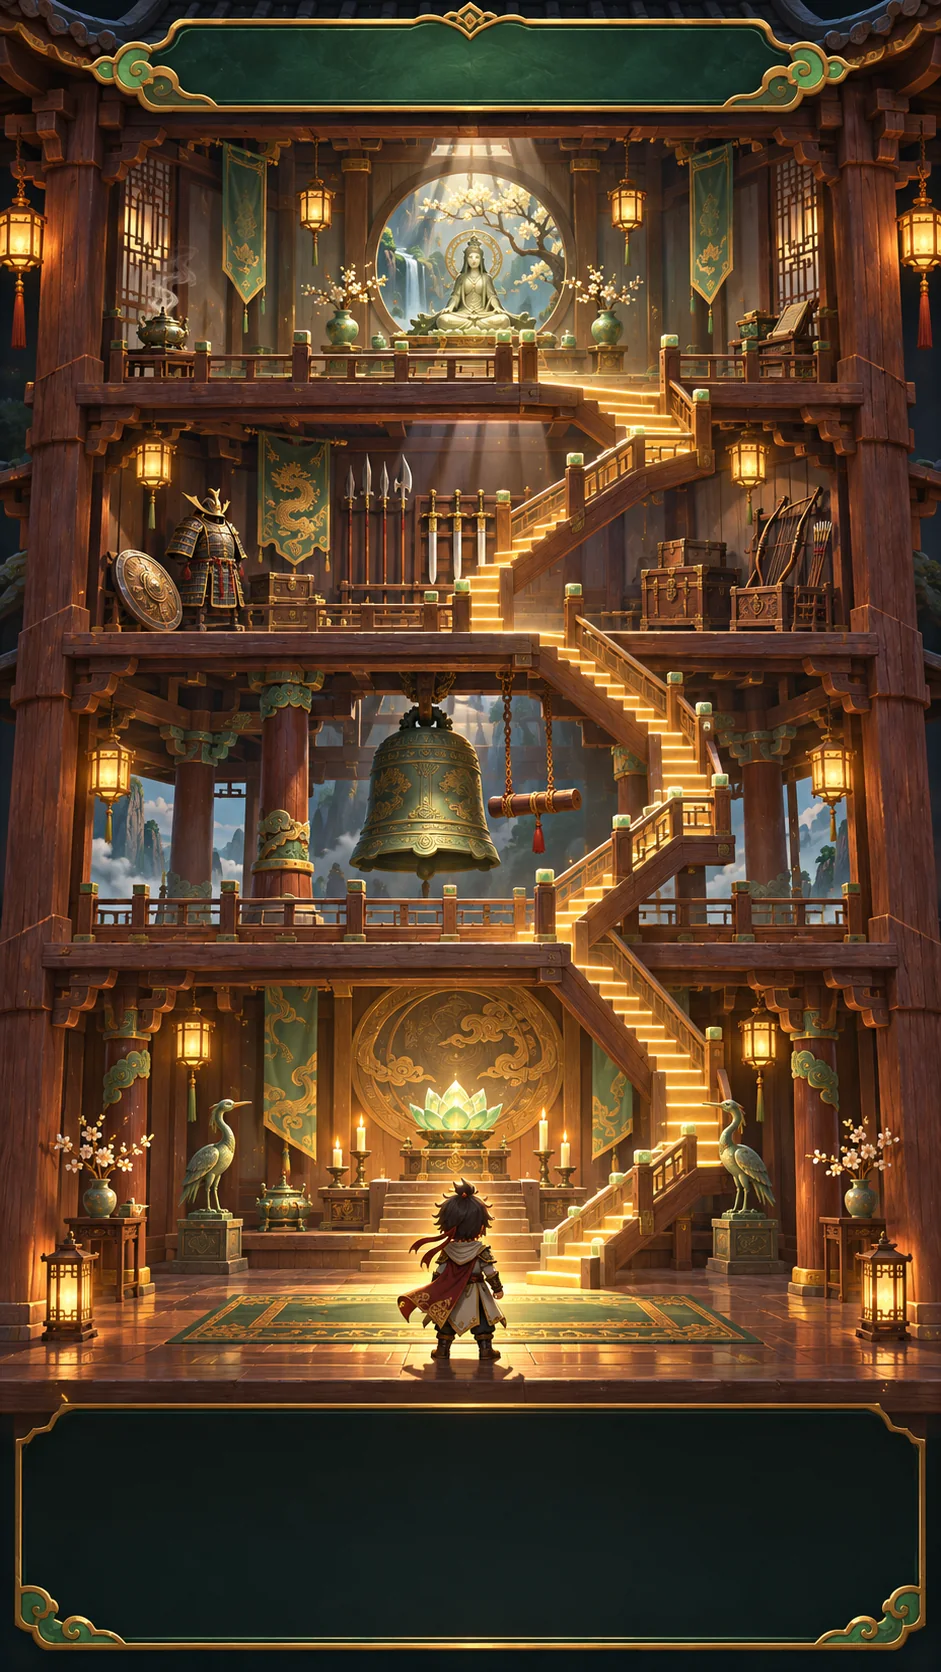
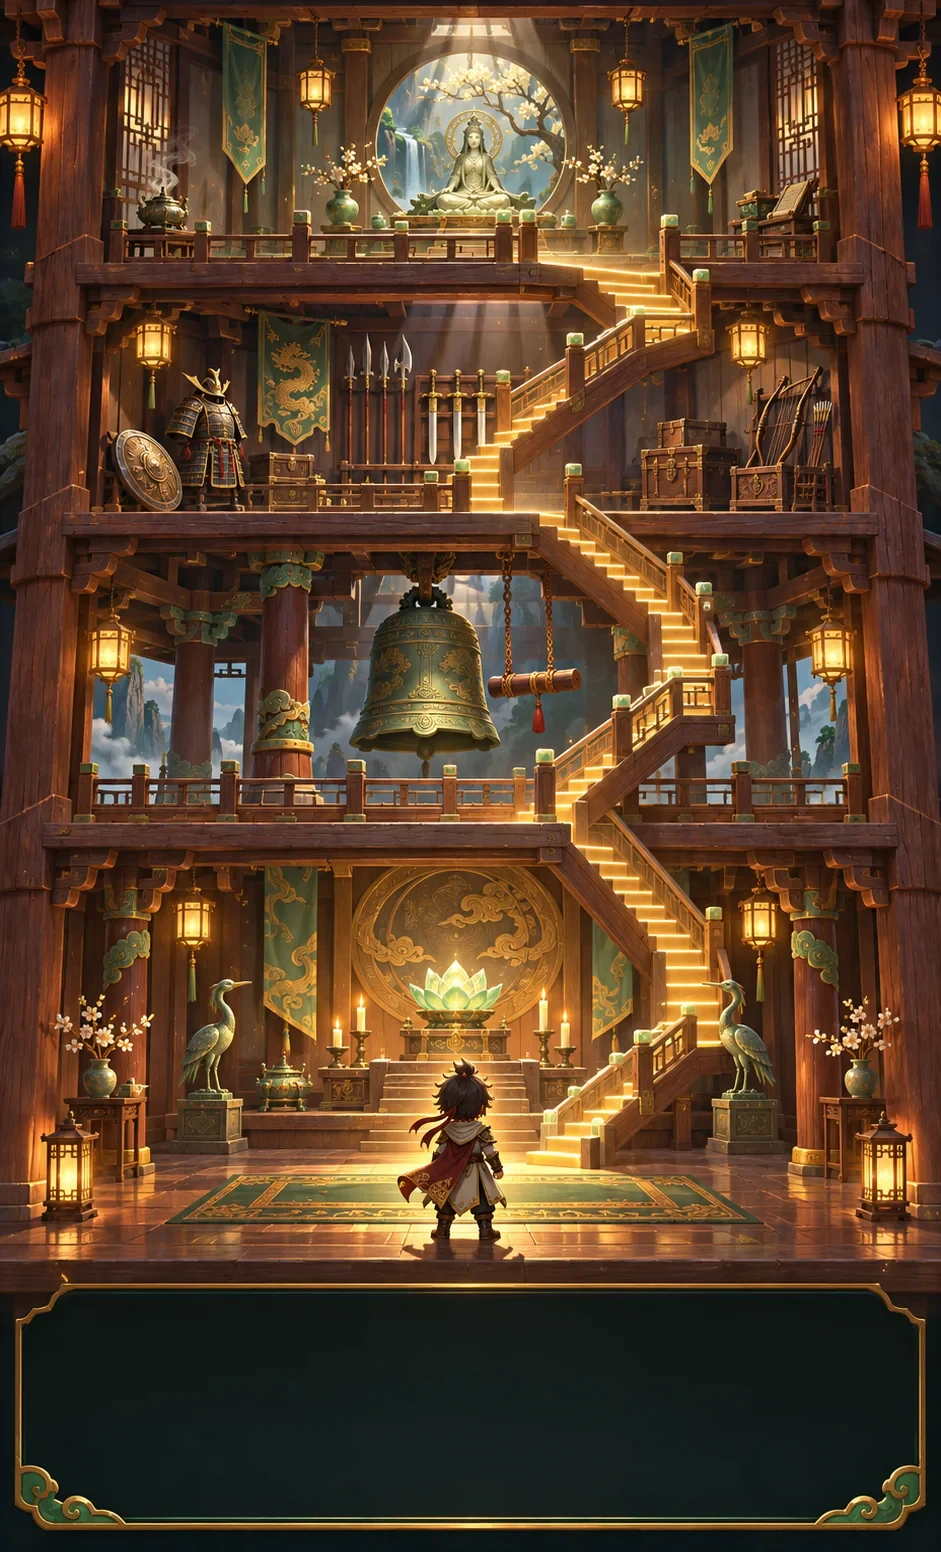
fix(tower): cat thanh xanh ve san tren anh nen, khung xanh om vua 2 o tai nguyen

diff --git a/src/ui/tower-concept.css b/src/ui/tower-concept.css
@@ -222,3 +222,8 @@
   border:1.5px solid #c9952e!important;border-radius:6px!important;
   box-shadow:inset 0 0 0 3px rgba(36,14,4,.9),inset 0 0 0 4px rgba(240,193,105,.5),0 3px 8px rgba(0,0,0,.55)!important;
   clip-path:polygon(10px 0,calc(100% - 10px) 0,100% 50%,calc(100% - 10px) 100%,10px 100%,0 50%)!important}
+/* v8 owner 06/11: bo thanh xanh ve san tren anh nen; khung xanh chi om vua 2 o tai nguyen */
+#hvTowerRoot .hv-tower-chips{display:inline-flex!important;gap:4px!important;padding:4px 6px!important;border-radius:999px!important;
+  background:linear-gradient(180deg,rgba(38,72,52,.95),rgba(20,44,32,.96))!important;
+  border:1.5px solid #c9952e!important;box-shadow:inset 0 0 0 2px rgba(12,28,20,.9),inset 0 0 0 3px rgba(240,193,105,.4),0 2px 6px rgba(0,0,0,.55)!important}
+#hvTowerRoot .hv-tower-chip{background:rgba(6,14,10,.6)!important;box-shadow:none!important;border:0!important}
